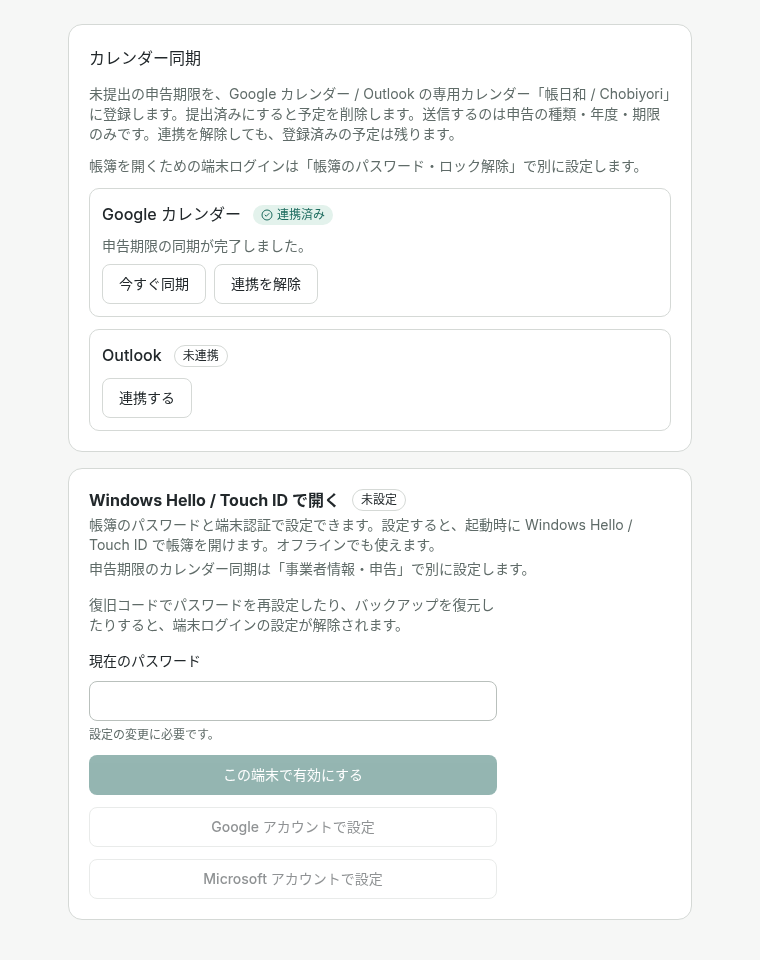
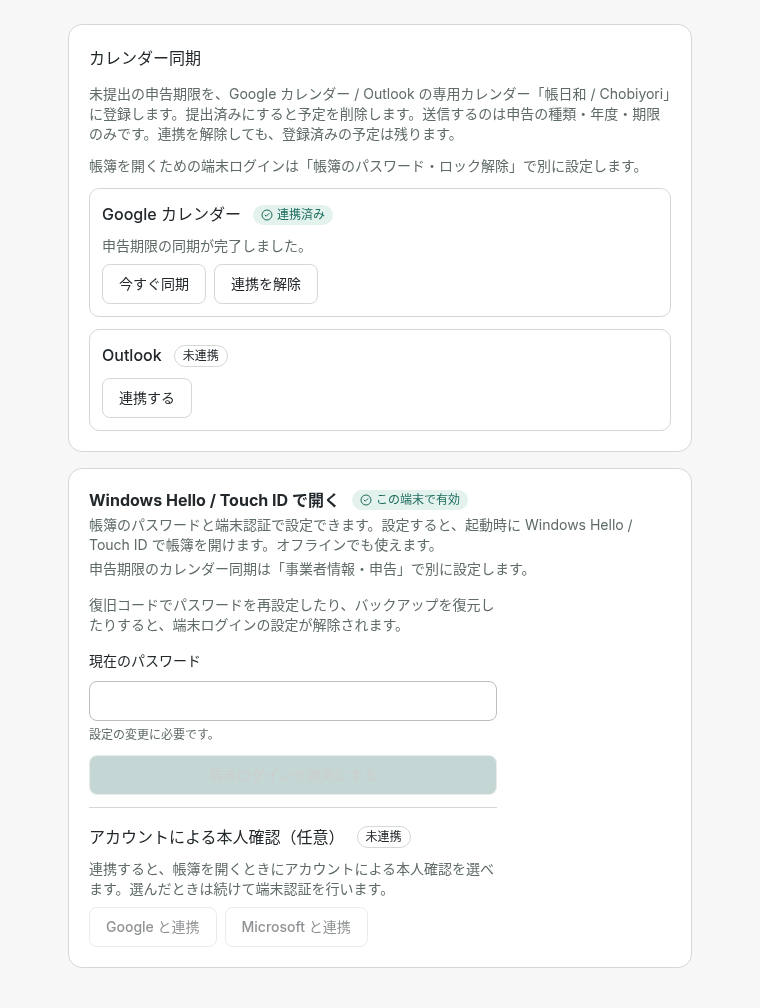
端末ログインと任意のアカウント連携を分けて設定する

Changed region(s): [[0.0908, 0.4688, 0.8171, 0.9375], [0.1211, 0.0312, 0.8776, 0.4375]]

diff --git a/src/features/security/account-login.tsx b/src/features/security/account-login.tsx
@@ -1,6 +1,6 @@
 import { useMutation, useQuery, useQueryClient } from "@tanstack/react-query"
 import { CircleCheck, Loader2 } from "lucide-react"
-import { type RefObject, useEffect, useState } from "react"
+import { type RefObject, useEffect, useId, useState } from "react"
 import { Badge } from "@/components/ui/badge"
 import { Button } from "@/components/ui/button"
 import {
@@ -18,6 +18,11 @@ import { useErrorMessage } from "@/lib/use-error-message"
 import { useSettingsStore } from "@/stores/settings-store"
 
 type Provider = "google" | "outlook"
+type SetupAction =
+	| Provider
+	| "enable-device"
+	| "disable-device"
+	| "remove-account"
 type LoginStatus = {
 	supported: boolean
 	enabled: boolean
@@ -36,19 +41,43 @@ export function useLoginStatus(enabled = true) {
 	})
 }
 
+function SetupBadge({
+	label,
+	ready,
+	pending,
+}: {
+	label: string
+	ready: boolean
+	pending: boolean
+}) {
+	return (
+		<Badge role="status" variant={ready && !pending ? "success" : "outline"}>
+			{ready && !pending && <CircleCheck aria-hidden="true" />}
+			{pending && (
+				<Loader2 aria-hidden="true" className="motion-safe:animate-spin" />
+			)}
+			{label}
+		</Badge>
+	)
+}
+
 export function AccountLoginSettings() {
 	const t = useTranslations("security")
+	const accountTitleId = useId()
 	const locale = useSettingsStore((s) => s.locale)
 	const status = useLoginStatus()
 	const [password, setPassword] = useState("")
 	const client = useQueryClient()
 	const errorMessage = useErrorMessage()
 	const change = useMutation({
-		mutationFn: (action: Provider | "device" | "disable") =>
-			action === "disable"
+		mutationFn: (action: SetupAction) =>
+			action === "disable-device"
 				? callCommand<void>("unlink_login", { password })
 				: callCommand<void>("link_login", {
-						provider: action === "device" ? null : action,
+						provider:
+							action === "enable-device" || action === "remove-account"
+								? null
+								: action,
 						password,
 						locale,
 					}),
@@ -73,18 +102,14 @@ export function AccountLoginSettings() {
 	const disabled = !password || change.isPending
 	const pendingAction = change.isPending ? change.variables : undefined
 	const browserAuth = pendingAction === "google" || pendingAction === "outlook"
-	const authenticating = browserAuth || pendingAction === "device"
-	let setupLabel = t("deviceNotEnabled")
-	if (enabled) {
-		setupLabel = t(
-			linked === "google"
-				? "linkedGoogle"
-				: linked === "outlook"
-					? "linkedMicrosoft"
-					: "deviceEnabled"
-		)
-	}
-	if (authenticating) setupLabel = t("deviceAuthorizing")
+	const devicePending = pendingAction === "enable-device"
+	const accountPending = browserAuth || pendingAction === "remove-account"
+	const deviceLabel = enabled ? "deviceEnabled" : "deviceNotEnabled"
+	const accountLabel = linked
+		? linked === "google"
+			? "linkedGoogle"
+			: "linkedMicrosoft"
+		: "deviceAccountNotLinked"
 
 	return (
 		<Card>
@@ -92,19 +117,11 @@ export function AccountLoginSettings() {
 				<div className="flex flex-wrap items-center gap-x-3 gap-y-1">
 					<CardTitle>{t("deviceTitle")}</CardTitle>
 					{supported && (
-						<Badge
-							role="status"
-							variant={enabled && !authenticating ? "success" : "outline"}
-						>
-							{enabled && !authenticating && <CircleCheck aria-hidden="true" />}
-							{authenticating && (
-								<Loader2
-									aria-hidden="true"
-									className="motion-safe:animate-spin"
-								/>
-							)}
-							{setupLabel}
-						</Badge>
+						<SetupBadge
+							label={t(devicePending ? "deviceAuthorizing" : deviceLabel)}
+							ready={enabled}
+							pending={devicePending}
+						/>
 					)}
 				</div>
 				<CardDescription>{t("deviceDescription")}</CardDescription>
@@ -123,53 +140,94 @@ export function AccountLoginSettings() {
 								onChange={(e) => setPassword(e.target.value)}
 							/>
 						</Field>
-						{(!enabled || linked) && (
-							<Button
-								disabled={disabled}
-								onClick={() => change.mutate("device")}
-							>
-								{t(linked ? "deviceSwitch" : "deviceEnable")}
-							</Button>
+						<Button
+							variant={enabled ? "outline" : "default"}
+							disabled={disabled}
+							onClick={() =>
+								change.mutate(enabled ? "disable-device" : "enable-device")
+							}
+						>
+							{t(enabled ? "deviceDisable" : "deviceEnable")}
+						</Button>
+						{devicePending && (
+							<p className="text-muted-foreground text-sm">
+								{t("deviceAuthenticationHint")}
+							</p>
 						)}
-						{google && (
-							<Button
-								variant="outline"
-								disabled={disabled}
-								onClick={() => change.mutate("google")}
-							>
-								{t("linkGoogle")}
-							</Button>
+						{linked && (
+							<p className="text-muted-foreground text-sm">
+								{t("deviceDisableAccountHint")}
+							</p>
 						)}
-						{microsoft && (
-							<Button
-								variant="outline"
-								disabled={disabled}
-								onClick={() => change.mutate("outlook")}
+						{(google || microsoft || linked) && (
+							<fieldset
+								aria-labelledby={accountTitleId}
+								className="space-y-2 border-t pt-4"
 							>
-								{t("linkMicrosoft")}
-							</Button>
-						)}
-						{enabled && (
-							<Button
-								variant="outline"
-								disabled={disabled}
-								onClick={() => change.mutate("disable")}
-							>
-								{t("unlinkAccount")}
-							</Button>
+								<div className="flex flex-wrap items-center gap-x-3 gap-y-1">
+									<h3 id={accountTitleId} className="font-medium">
+										{t("deviceAccountTitle")}
+									</h3>
+									<SetupBadge
+										label={t(
+											accountPending ? "deviceAuthorizing" : accountLabel
+										)}
+										ready={linked != null}
+										pending={accountPending}
+									/>
+								</div>
+								<p className="text-muted-foreground text-sm">
+									{t("deviceAccountDescription")}
+								</p>
+								{enabled ? (
+									<div className="flex flex-wrap gap-2">
+										{google && (
+											<Button
+												variant="outline"
+												disabled={disabled}
+												onClick={() => change.mutate("google")}
+											>
+												{t(linked ? "changeToGoogle" : "linkGoogle")}
+											</Button>
+										)}
+										{microsoft && (
+											<Button
+												variant="outline"
+												disabled={disabled}
+												onClick={() => change.mutate("outlook")}
+											>
+												{t(linked ? "changeToMicrosoft" : "linkMicrosoft")}
+											</Button>
+										)}
+										{linked && (
+											<Button
+												variant="outline"
+												disabled={disabled}
+												onClick={() => change.mutate("remove-account")}
+											>
+												{t("unlinkAccount")}
+											</Button>
+										)}
+									</div>
+								) : (
+									<p className="text-muted-foreground text-sm">
+										{t("deviceAccountEnableHint")}
+									</p>
+								)}
+								{accountPending && (
+									<p className="text-muted-foreground text-sm">
+										{t(
+											browserAuth
+												? "deviceAuthorizationHint"
+												: "deviceAuthenticationHint"
+										)}
+									</p>
+								)}
+							</fieldset>
 						)}
 					</>
 				) : (
 					<p>{t("deviceUnavailable")}</p>
-				)}
-				{authenticating && (
-					<p className="text-muted-foreground text-sm">
-						{t(
-							browserAuth
-								? "deviceAuthorizationHint"
-								: "deviceAuthenticationHint"
-						)}
-					</p>
 				)}
 				{change.error && (
 					<p role="alert" className="text-destructive text-sm">

diff --git a/src/pages/security.test.tsx b/src/pages/security.test.tsx
@@ -367,7 +367,9 @@ describe("端末ログインの設定", () => {
 		expect(password).toHaveValue("")
 
 		await user.type(password, "correct horse")
-		await user.click(screen.getByRole("button", { name: "設定を解除" }))
+		await user.click(
+			screen.getByRole("button", { name: "端末ログインを無効にする" })
+		)
 		expect(mocks.callCommand).toHaveBeenCalledWith("unlink_login", {
 			password: "correct horse",
 		})
@@ -377,31 +379,53 @@ describe("端末ログインの設定", () => {
 		expect(screen.getByRole("status")).toHaveTextContent("未設定")
 	})
 
-	it("アカウントを使う場合はブラウザと端末の本人確認を案内する", async () => {
-		let finishAuthorization!: () => void
-		loginAuthorization = new Promise((resolve) => {
-			finishAuthorization = resolve
-		})
+	it("端末ログインを有効にしてから、アカウントを個別に追加・解除できる", async () => {
 		const user = userEvent.setup()
 		render(
 			<AppProviders>
 				<AccountLoginSettings />
 			</AppProviders>
 		)
-		expect(await screen.findByRole("status")).toHaveTextContent("未設定")
-		await user.type(screen.getByLabelText("現在のパスワード"), "correct horse")
-		await user.click(
-			screen.getByRole("button", { name: "Google アカウントで設定" })
+		const account = within(
+			await screen.findByRole("group", {
+				name: "アカウントによる本人確認（任意）",
+			})
 		)
-		expect(await screen.findByText("本人確認中…")).toBeInTheDocument()
-		expect(screen.getByText(/ブラウザで本人確認.*Touch ID/)).toBeInTheDocument()
+		expect(account.getByRole("status")).toHaveTextContent("未連携")
+		expect(account.queryByRole("button", { name: "Google と連携" })).toBeNull()
+		const password = screen.getByLabelText("現在のパスワード")
+		await user.type(password, "correct horse")
+		await user.click(
+			screen.getByRole("button", { name: "この端末で有効にする" })
+		)
+		const deviceStatus = await screen.findByText("この端末で有効")
+		expect(account.getByRole("status")).toHaveTextContent("未連携")
+
+		let finishAuthorization!: () => void
+		loginAuthorization = new Promise((resolve) => {
+			finishAuthorization = resolve
+		})
+		await user.type(password, "correct horse")
+		await user.click(account.getByRole("button", { name: "Google と連携" }))
+		expect(await account.findByText("本人確認中…")).toBeInTheDocument()
 		expect(
-			screen.queryByText("設定済み（Google アカウント）")
-		).not.toBeInTheDocument()
-		await act(async () => finishAuthorization())
-		expect(
-			await screen.findByText("設定済み（Google アカウント）")
+			account.getByText(/ブラウザで本人確認.*Touch ID/)
 		).toBeInTheDocument()
+		expect(deviceStatus).toHaveTextContent("この端末で有効")
+		await act(async () => finishAuthorization())
+		expect(await account.findByText("Google と連携済み")).toBeInTheDocument()
+
+		await user.type(password, "correct horse")
+		await user.click(
+			account.getByRole("button", { name: "アカウント連携を解除" })
+		)
+		expect(await account.findByText("未連携")).toBeInTheDocument()
+		expect(deviceStatus).toHaveTextContent("この端末で有効")
+		expect(
+			mocks.callCommand.mock.calls.some(
+				([command]) => command === "unlink_login"
+			)
+		).toBe(false)
 	})
 })
 

diff --git a/src-tauri/src/commands/filing_calendar_sync/oauth/callback_page.rs b/src-tauri/src/commands/filing_calendar_sync/oauth/callback_page.rs
@@ -30,8 +30,8 @@ fn next_step(flow: Flow) -> Text {
             en: "Check for “Connected” under Settings → Business details and tax filing → Calendar sync.",
         },
         Flow::LinkLogin => Text {
-            ja: "Windows Hello / Touch ID の画面が出たら本人確認を行い、設定 → 帳簿のパスワード・ロック解除で「設定済み」と表示されることを確認してください。",
-            en: "Follow any Windows Hello / Touch ID prompt, then check for “Set up” under Settings → Book password and unlock options.",
+            ja: "Windows Hello / Touch ID で本人確認を行い、設定 → 帳簿のパスワード・ロック解除の「アカウントによる本人確認」で連携状態を確認してください。",
+            en: "Verify with Windows Hello / Touch ID, then check the link status under Settings → Book password and unlock options → Account verification.",
         },
         Flow::Unlock => Text {
             ja: "Windows Hello / Touch ID の画面が出たら、本人確認を行って帳簿を開いてください。",

diff --git a/src-tauri/src/commands/filing_calendar_sync/oauth.rs b/src-tauri/src/commands/filing_calendar_sync/oauth.rs
@@ -315,6 +315,13 @@ mod tests {
                 true,
             ),
             (
+                "code=opaque-code&state=correct",
+                Locale::Ja,
+                Flow::LinkLogin,
+                "「アカウントによる本人確認」で連携状態を確認",
+                true,
+            ),
+            (
                 "error=access_denied&state=correct",
                 Locale::En,
                 Flow::LinkLogin,
